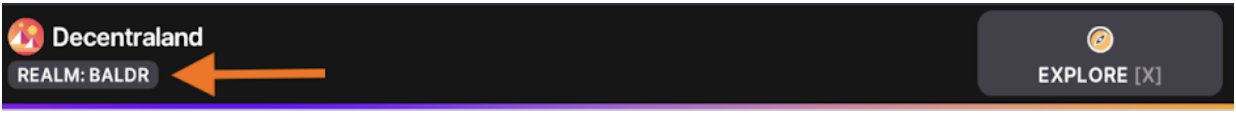
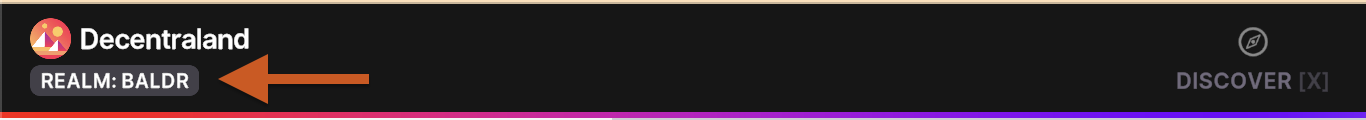
Updated meeting doc to rename explore to discover

diff --git a/content/player/general/meeting.md b/content/player/general/meeting.md
@@ -9,16 +9,16 @@ url: /player/general/meet-with-friends
 weight: 6
 ---
 
-Being a decentralized platform involves having different servers hosted by different community members and to be able to meet with your friends or colleagues in-world, you all need to be in the same place. This can represent a challenge until you understand what being at the same place means. 
+Being a decentralized platform involves having different servers hosted by different community members and to be able to meet with your friends or colleagues in-world, you all need to be in the same place. This can represent a challenge until you understand what being at the same place means.
 
-There are two aspects to take into consideration when we talk about a place in Decentraland, the first one is the Realm or Server and the second one is the Position. 
+There are two aspects to take into consideration when we talk about a place in Decentraland, the first one is the Realm or Server and the second one is the Position.
 
 The platform currently has 11 servers that have friendly names such as Hela, Baldr or Loki and each server represents a realm. When you are logged into the platform, you are only able to interact with users connected to the same realm that you are in. Finding or changing the realm is an easy process and there are several ways to do it. Once you are in-world you can click on your profile at the top right corner of the screen, this will open a window with different things that you can change or explore but what we are looking for is at the top left corner of the window, there you will see the realm name you are in: 
 
 
 ![realm](/images/media/realm.png)
 
-If you click on the realm name, a new pop up window will be opened showing the complete list of available realms and the quantity of users in each of them and, by clicking on the **WARP IN** link you can easily jump between realms. 
+If you click on the realm name, a new pop up window will be opened showing the complete list of available realms and the quantity of users in each of them and, by clicking on the **WARP IN** link you can easily jump between realms.
 
 ![realms-list](/images/media/realms-list.png)
 
@@ -28,15 +28,15 @@ Another way to jump to a different realm is to use one of the available chatbox 
 
 Now that you are in the realm where you want to meet your mates, the second aspect to be at the same place is the **position** or location coordinates which are determined by two numbers representing the **x** and **y** axis of the Genesis City map. When you enter Genesis City you land at the `0,0` coordinates that are at the center of the world and this is where the Genesis Plaza is located, usually a crowded place as it is where most users land. The range of possible coordinates goes from `-150` to `150` for both axes and as a result, you get 90 thousand possibilities to choose from.     
 
-Now the questions are: How to pick a location? And how to get there? 
+Now the questions are: How to pick a location? And how to get there?
 
-On the Map at the top left coroner of the screen, there is a section where you have your current location coordinates and the Map view it’s also a portal to the rest of Genesis City. Open the full map by click on it and jump in any Genesis City location just by selecting the point on the map, you can go crazy and pick a random spot or, you can also open the Places page that has the city points of interest list and pick a cool location from there. To see the existing points of interest, click on your profile picture again, then select the `Explore` section and open the `Places` tab. 
+On the Map at the top left coroner of the screen, there is a section where you have your current location coordinates and the Map view it’s also a portal to the rest of Genesis City. Open the full map by click on it and jump in any Genesis City location just by selecting the point on the map, you can go crazy and pick a random spot or, you can also open the Places page that has the city points of interest list and pick a cool location from there. To see the existing points of interest, click on your profile picture again, then select the `Discover` section and open the `Places` tab.
 
 ![map](/images/media/map.png)
 
-There is another chabtox command that you can use to move around different locations on the Genesis City, open the chat and write `/goto [x,y]` and replace `[x,y]` with the two coordinates that you want to go, for example writing `/goto 100,-50` will take you to that location. 
+There is another chabtox command that you can use to move around different locations on the Genesis City, open the chat and write `/goto [x,y]` and replace `[x,y]` with the two coordinates that you want to go, for example writing `/goto 100,-50` will take you to that location.
 
-At this point you should be at the meeting place, realm & location, so it's time to share this with your friends, send them a message *"let's meet in Loki at 100,-33"* or they can also search for you on their friends list and click on the red arrow button that will take them exactly where you are. Finally, if you are using the web browser client, there is another less convenient possibility, to share your current URL as it will contains your current locations details and take there anyone who opens it. 
+At this point you should be at the meeting place, realm & location, so it's time to share this with your friends, send them a message *"let's meet in Loki at 100,-33"* or they can also search for you on their friends list and click on the red arrow button that will take them exactly where you are. Finally, if you are using the web browser client, there is another less convenient possibility, to share your current URL as it will contains your current locations details and take there anyone who opens it.
 
 {{< hint warning >}}
 **📔 Note**: There is another layer of users grouping at Decentraland that may prevent you from seeing someone that is at the same place that you are. Users are grouped in communication islands and the islands have a maximum allowed size of 100 users per island. When there are more than 100 users on the same place, more than one island will also exist. If you and your friend are at the same place but in different islands, you won't be able to see or talk to each other. To workaround this you can try to force the island by just copy/pasting your friend's full URL ([more info](https://adr.decentraland.org/adr/ADR-70)).
@@ -45,8 +45,5 @@ At this point you should be at the meeting place, realm & location, so it's time
 
 
 
-**The TL;DR version**: 
-To meet with someone you need to be in the same realm and position. Use the Map view to move around or the realm selection window to change where you are. You can also use the `/changerealm [realm-name]` and `/goto [x,y]` commands te get to where you want. 
-
-
-
+**The TL;DR version**:
+To meet with someone you need to be in the same realm and position. Use the Map view to move around or the realm selection window to change where you are. You can also use the `/changerealm [realm-name]` and `/goto [x,y]` commands te get to where you want.
